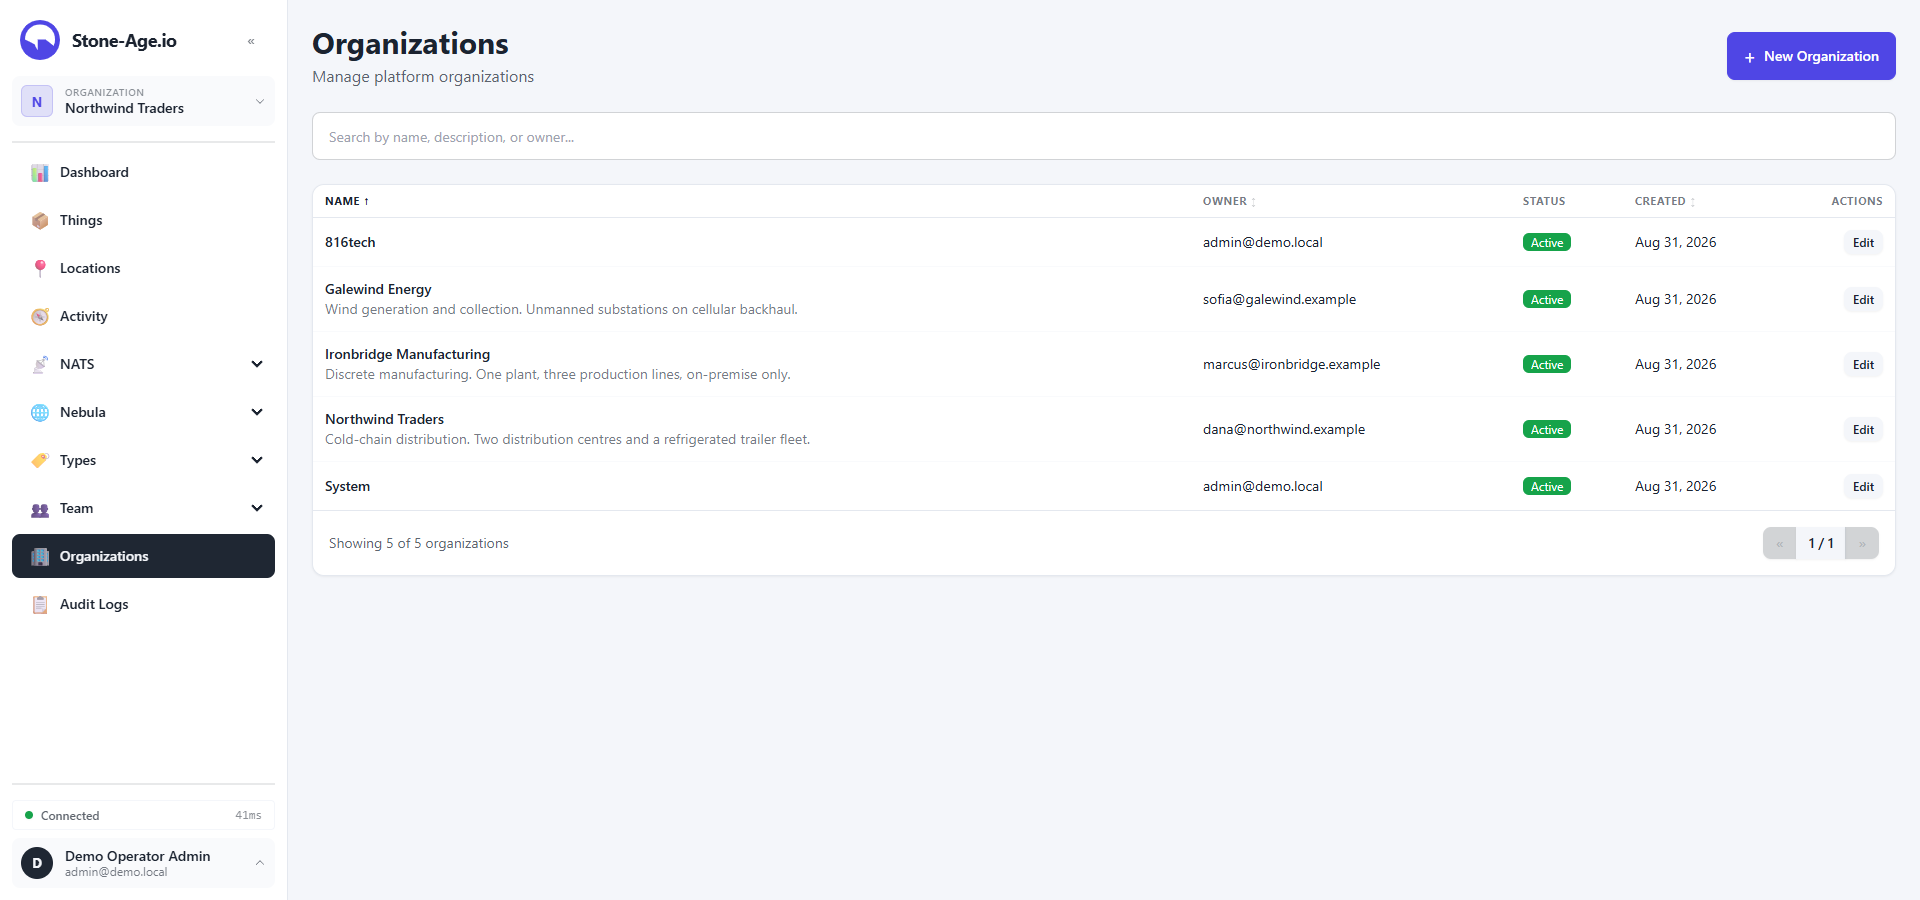
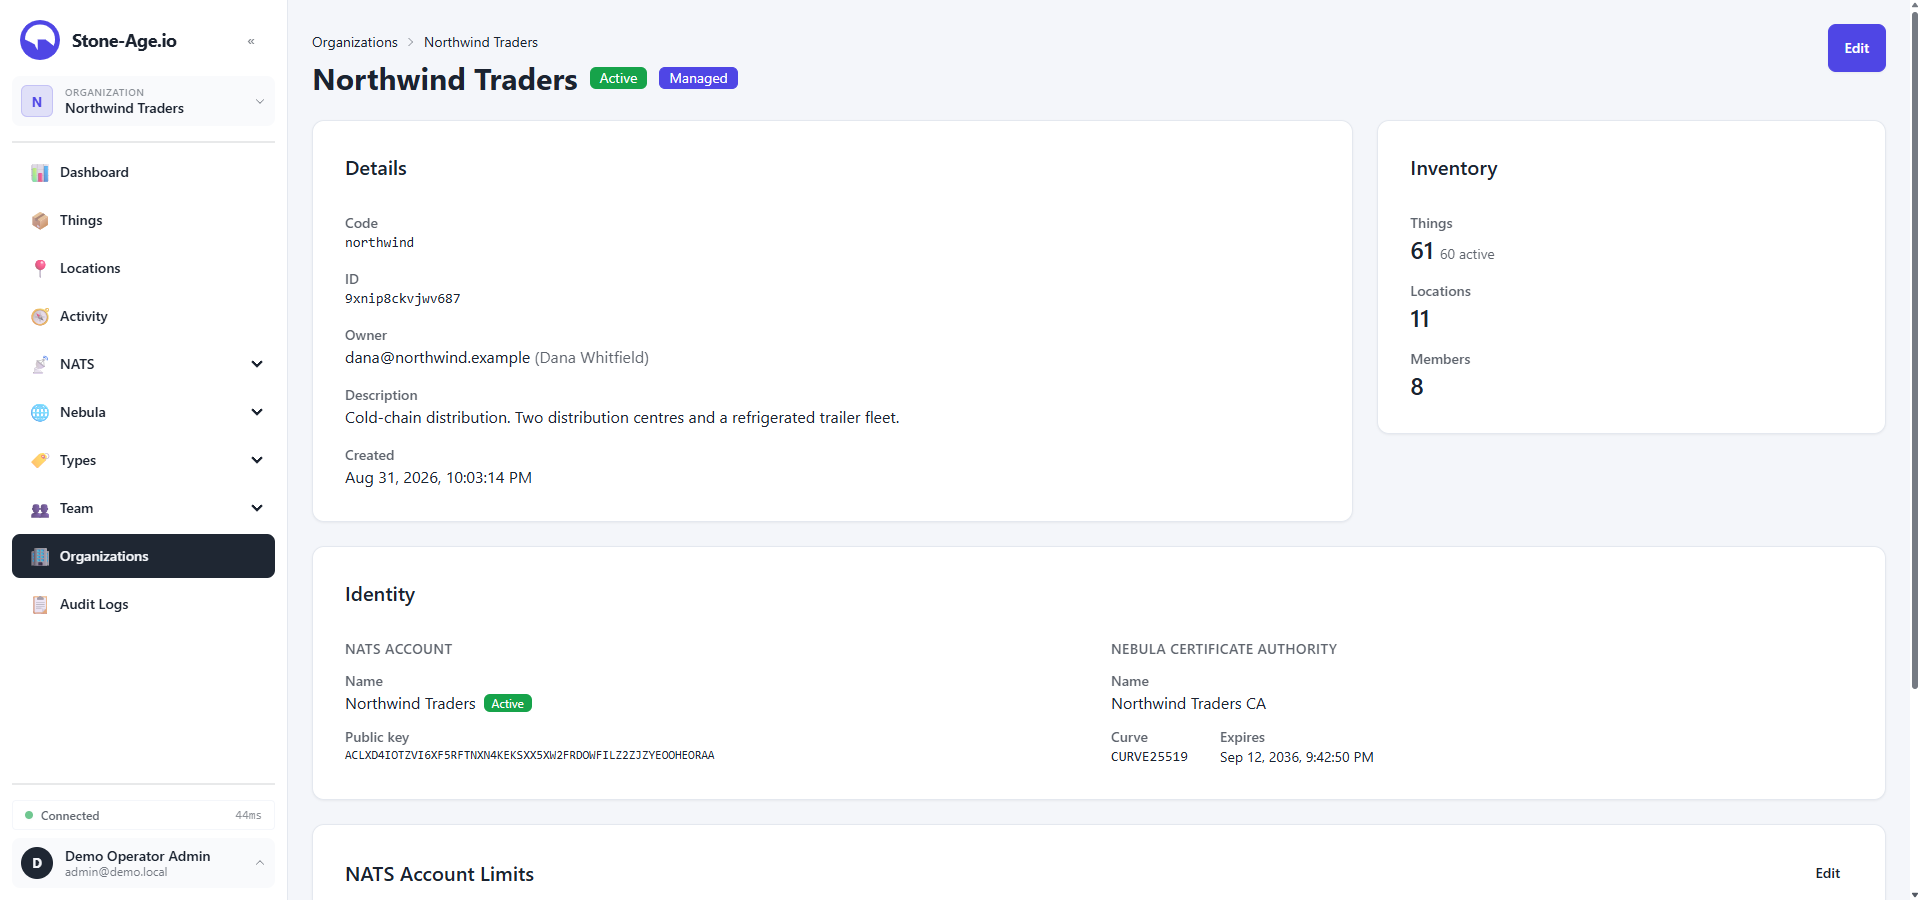
tour: show an organization's own NATS account and CA, not the list
The Organizations tab now shows Northwind Traders' page in the demo, dark
and light: its details, its counts of things, locations and members, and
its own NATS account and Nebula CA. That is what the tab's caption claims,
which the list could not show. The caption drops "hundreds of customers",
which nothing on the site backs.

diff --git a/src/components/home/ScreenshotTour.vue b/src/components/home/ScreenshotTour.vue
@@ -230,12 +230,12 @@ const tabs = [
   {
     label: 'Organizations',
     icon: 'pi-building',
-    url: 'console.stone-age.io/organizations',
+    url: 'console.stone-age.io/organizations/9xnip8ckvjwv687',
     image: '/images/screenshots/organizations.png',
     imageLight: '/images/screenshots/organizations-light.png',
-    alt: 'Multi-tenant organization management',
+    alt: "An organization's page: its details, counts of things, locations and members, and its own NATS account and Nebula certificate authority",
     title: 'Multi-tenant management',
-    description: 'Each organization gets isolated NATS accounts and Nebula CAs. Manage hundreds of customers from a single deployment with cryptographic data separation.'
+    description: "Each organization gets its own NATS account and its own Nebula CA, so one tenant's certificates can't be trusted by another. Its size and both identity boundaries are on one page."
   }
 ];
 
